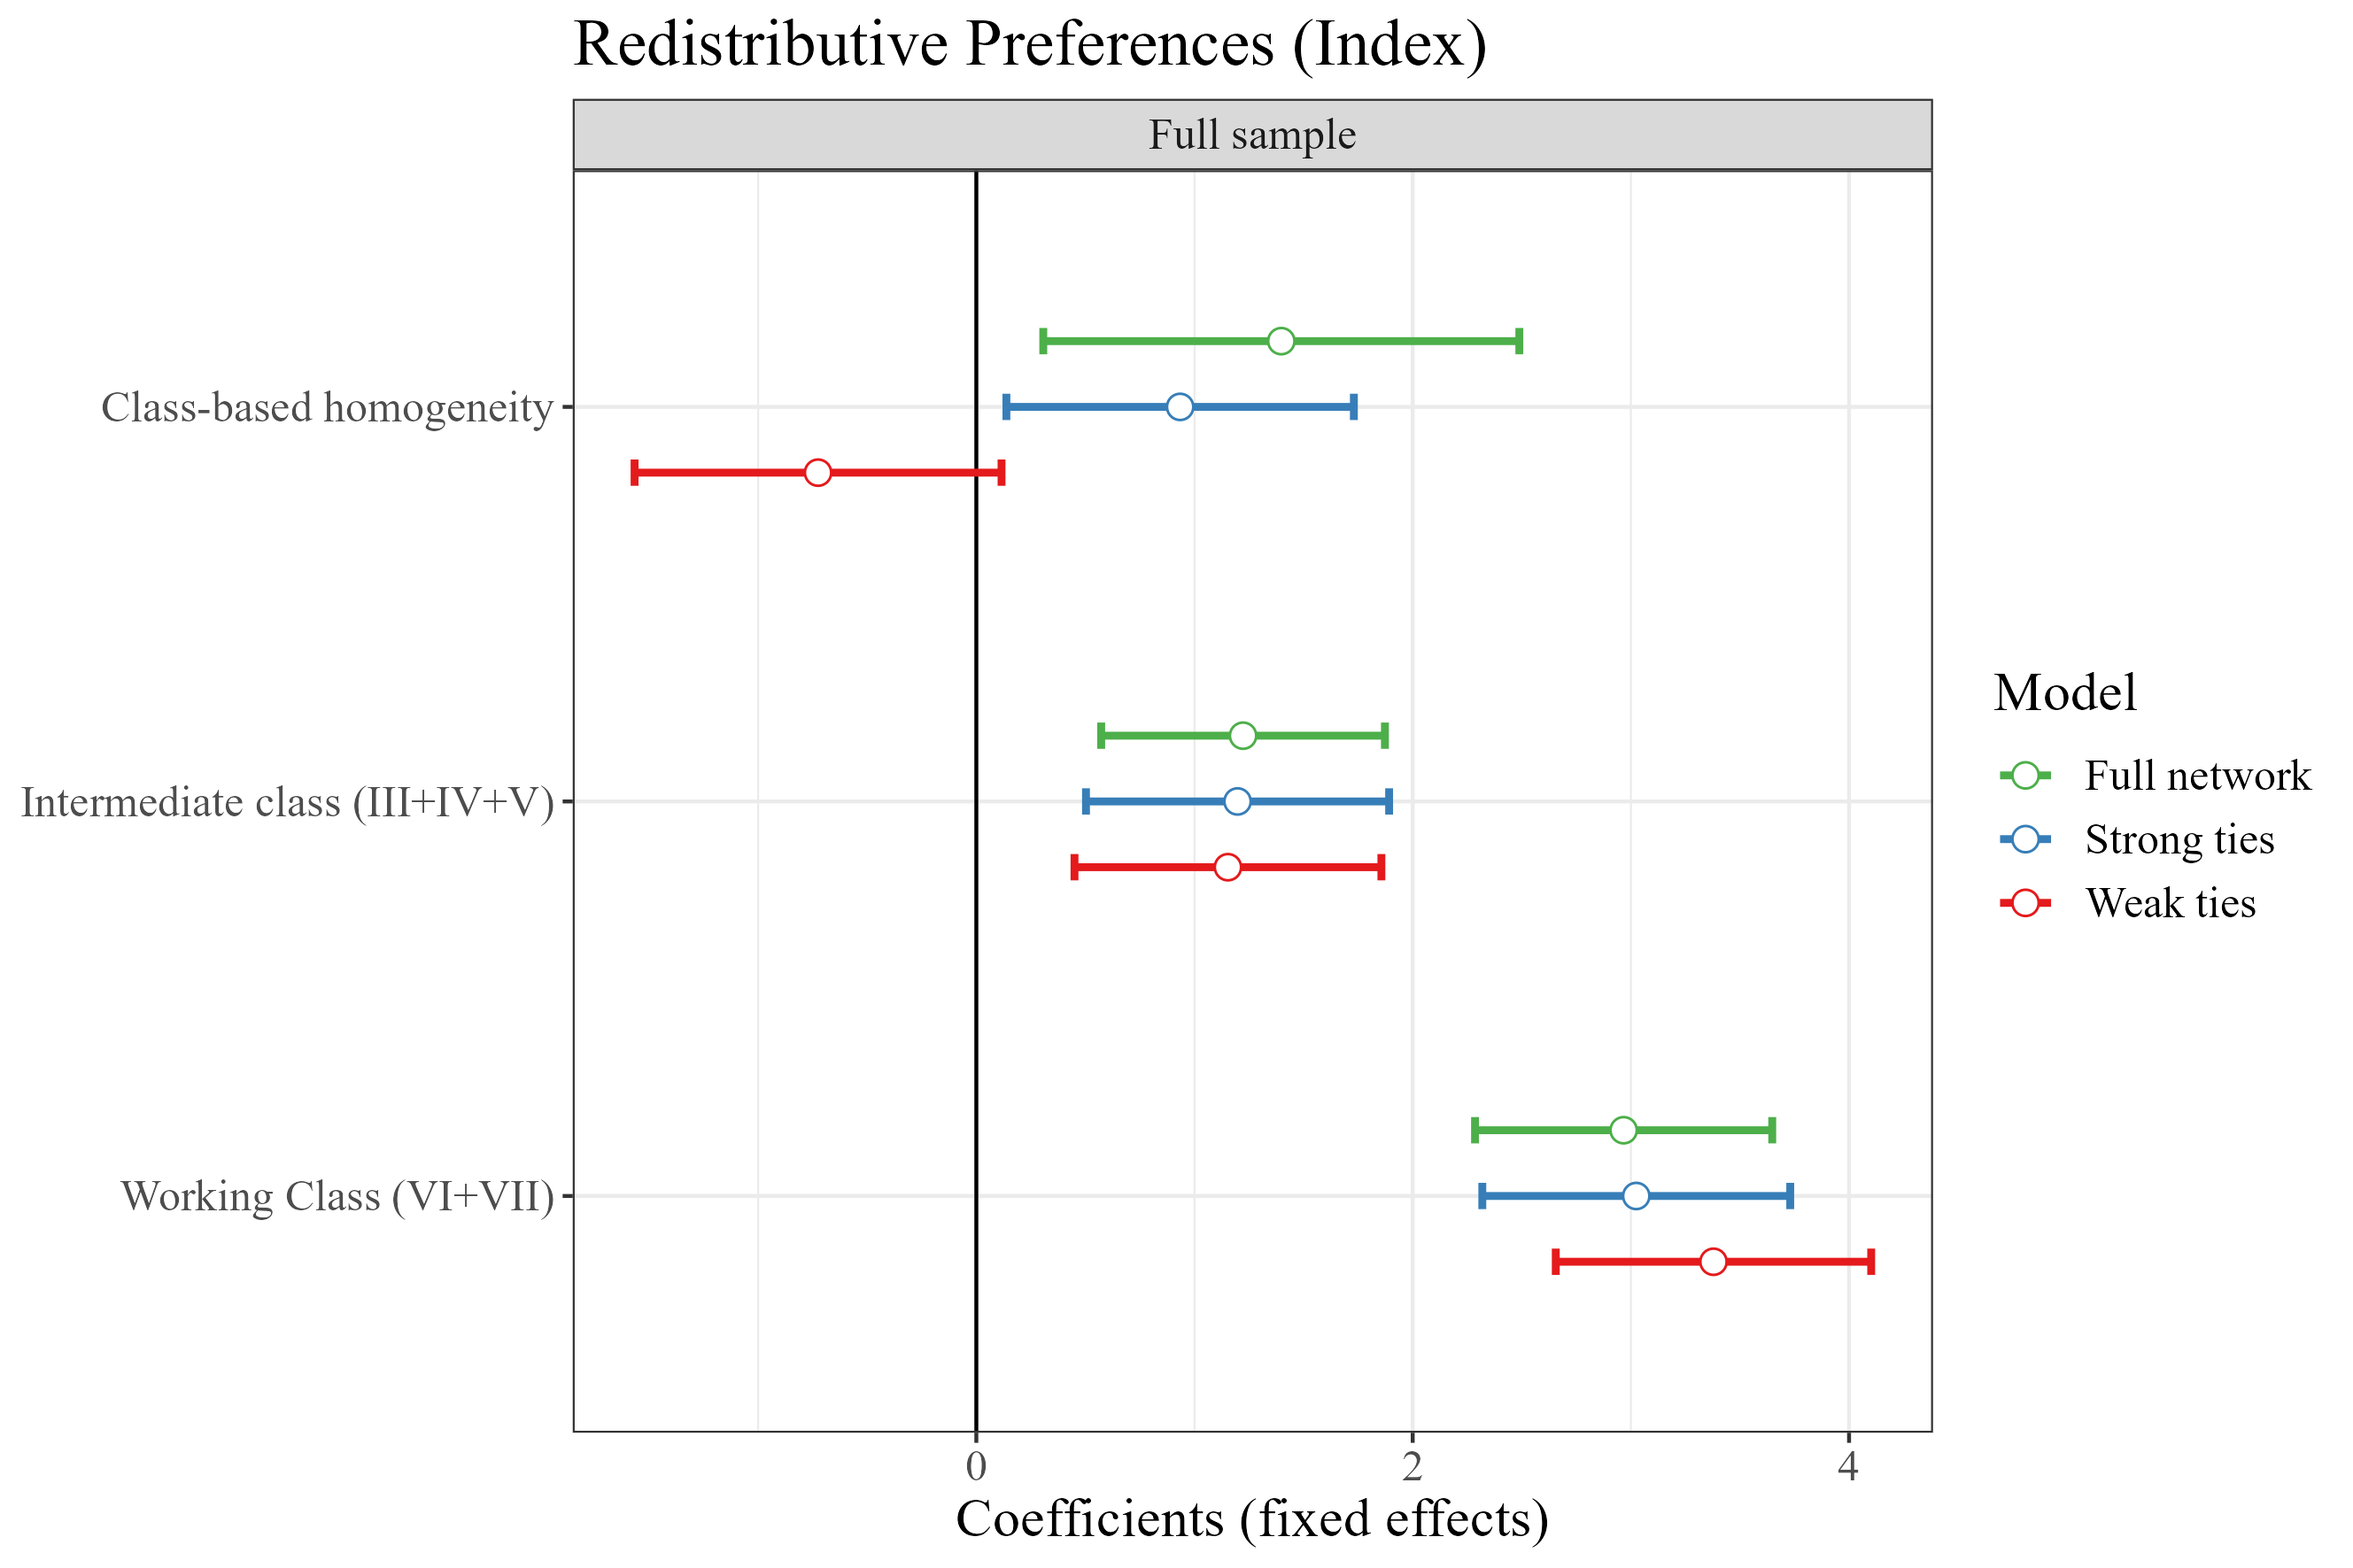
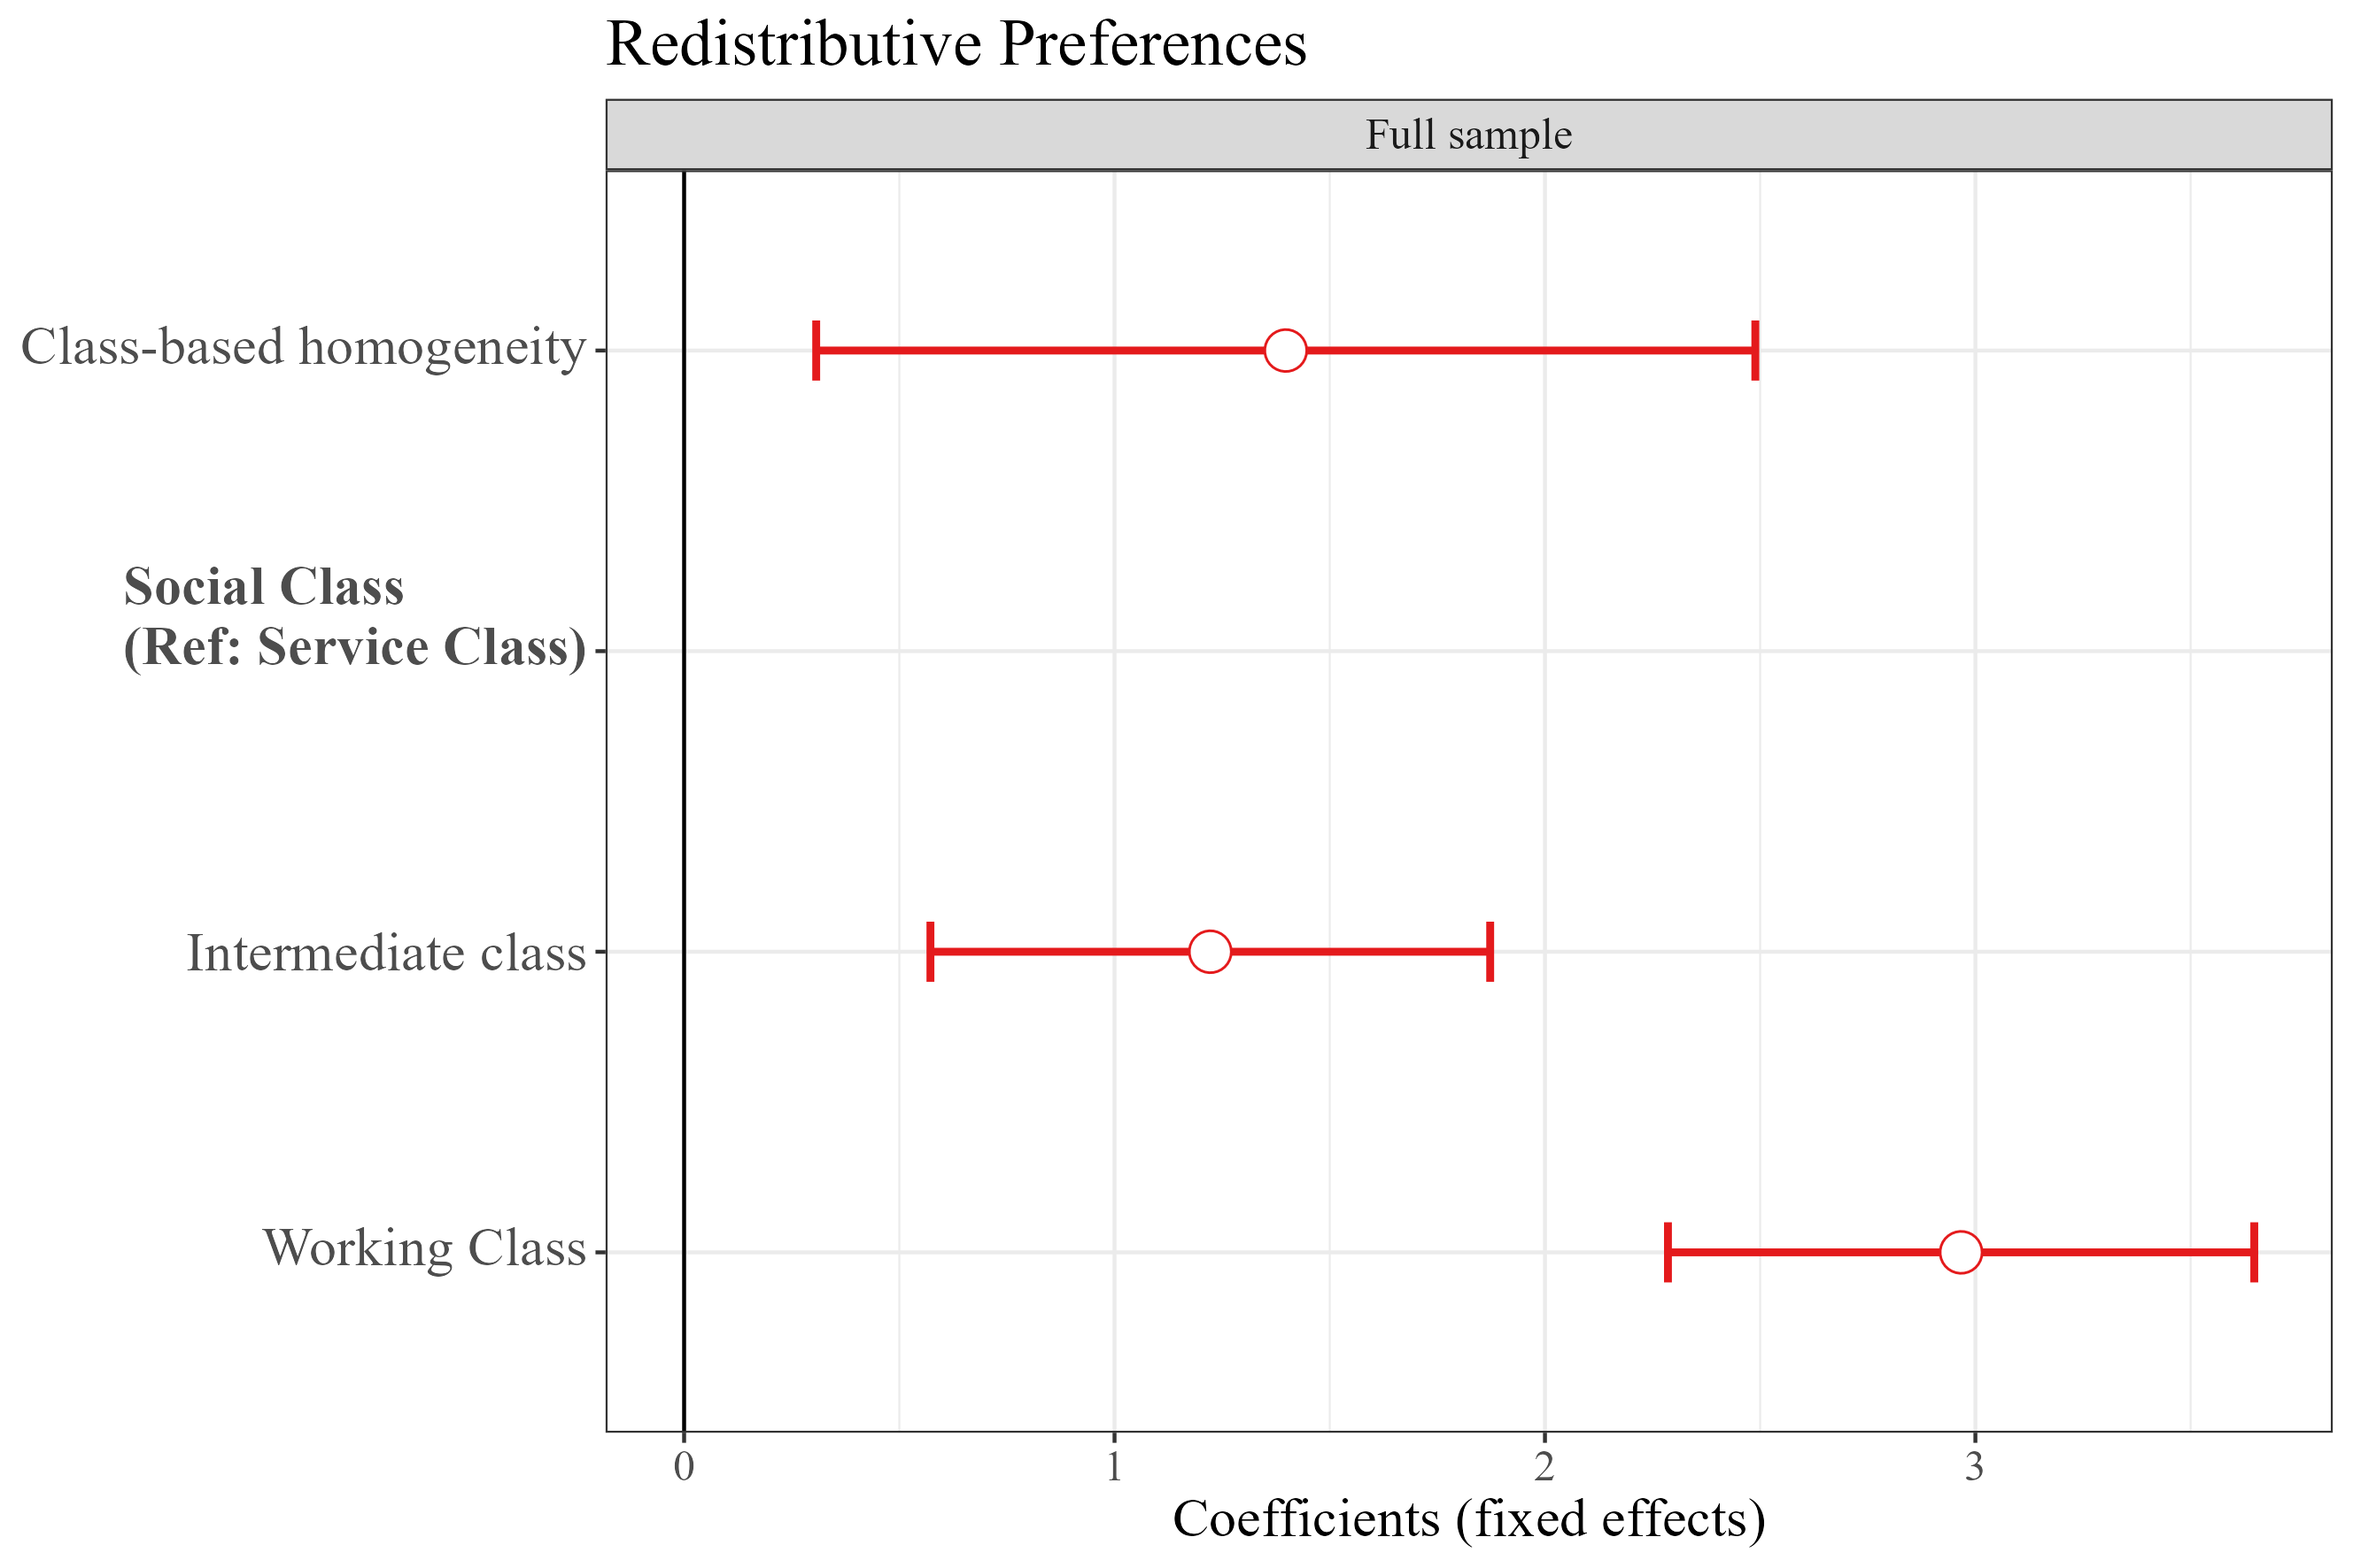
a

diff --git a/tab_cross_level.html b/tab_cross_level.html
@@ -1,0 +1,246 @@
+<table class="texreg" style="margin: 10px auto;border-collapse: collapse;border-spacing: 0px;caption-side: bottom;color: #000000;border-top: 2px solid #000000;">
+<caption>Statistical models</caption>
+<thead>
+<tr>
+<th style="padding-left: 5px;padding-right: 5px;">&nbsp;</th>
+<th style="padding-left: 5px;padding-right: 5px;">Model 1</th>
+<th style="padding-left: 5px;padding-right: 5px;">Model 2</th>
+<th style="padding-left: 5px;padding-right: 5px;">Model 3</th>
+</tr>
+</thead>
+<tbody>
+<tr style="border-top: 1px solid #000000;">
+<td style="padding-left: 5px;padding-right: 5px;">Intermediate Class</td>
+<td style="padding-left: 5px;padding-right: 5px;">1.22<sup>&#42;&#42;&#42;</sup></td>
+<td style="padding-left: 5px;padding-right: 5px;">-1.28<sup>&#42;</sup></td>
+<td style="padding-left: 5px;padding-right: 5px;">6.45<sup>&#42;&#42;</sup></td>
+</tr>
+<tr>
+<td style="padding-left: 5px;padding-right: 5px;">&nbsp;</td>
+<td style="padding-left: 5px;padding-right: 5px;">(0.33)</td>
+<td style="padding-left: 5px;padding-right: 5px;">(0.60)</td>
+<td style="padding-left: 5px;padding-right: 5px;">(2.24)</td>
+</tr>
+<tr>
+<td style="padding-left: 5px;padding-right: 5px;">Working Class</td>
+<td style="padding-left: 5px;padding-right: 5px;">2.97<sup>&#42;&#42;&#42;</sup></td>
+<td style="padding-left: 5px;padding-right: 5px;">-0.72</td>
+<td style="padding-left: 5px;padding-right: 5px;">10.95<sup>&#42;&#42;&#42;</sup></td>
+</tr>
+<tr>
+<td style="padding-left: 5px;padding-right: 5px;">&nbsp;</td>
+<td style="padding-left: 5px;padding-right: 5px;">(0.35)</td>
+<td style="padding-left: 5px;padding-right: 5px;">(0.60)</td>
+<td style="padding-left: 5px;padding-right: 5px;">(2.87)</td>
+</tr>
+<tr>
+<td style="padding-left: 5px;padding-right: 5px;">Class-based network homogeneity</td>
+<td style="padding-left: 5px;padding-right: 5px;">1.40<sup>&#42;</sup></td>
+<td style="padding-left: 5px;padding-right: 5px;">-7.21<sup>&#42;&#42;&#42;</sup></td>
+<td style="padding-left: 5px;padding-right: 5px;">-21.58<sup>&#42;&#42;&#42;</sup></td>
+</tr>
+<tr>
+<td style="padding-left: 5px;padding-right: 5px;">&nbsp;</td>
+<td style="padding-left: 5px;padding-right: 5px;">(0.56)</td>
+<td style="padding-left: 5px;padding-right: 5px;">(1.28)</td>
+<td style="padding-left: 5px;padding-right: 5px;">(6.16)</td>
+</tr>
+<tr>
+<td style="padding-left: 5px;padding-right: 5px;">Homogeneity x Intermediate Class</td>
+<td style="padding-left: 5px;padding-right: 5px;">&nbsp;</td>
+<td style="padding-left: 5px;padding-right: 5px;">9.16<sup>&#42;&#42;&#42;</sup></td>
+<td style="padding-left: 5px;padding-right: 5px;">23.14<sup>&#42;&#42;</sup></td>
+</tr>
+<tr>
+<td style="padding-left: 5px;padding-right: 5px;">&nbsp;</td>
+<td style="padding-left: 5px;padding-right: 5px;">&nbsp;</td>
+<td style="padding-left: 5px;padding-right: 5px;">(1.65)</td>
+<td style="padding-left: 5px;padding-right: 5px;">(7.55)</td>
+</tr>
+<tr>
+<td style="padding-left: 5px;padding-right: 5px;">Homogeneity x Working Class</td>
+<td style="padding-left: 5px;padding-right: 5px;">&nbsp;</td>
+<td style="padding-left: 5px;padding-right: 5px;">11.53<sup>&#42;&#42;&#42;</sup></td>
+<td style="padding-left: 5px;padding-right: 5px;">26.49<sup>&#42;&#42;&#42;</sup></td>
+</tr>
+<tr>
+<td style="padding-left: 5px;padding-right: 5px;">&nbsp;</td>
+<td style="padding-left: 5px;padding-right: 5px;">&nbsp;</td>
+<td style="padding-left: 5px;padding-right: 5px;">(1.50)</td>
+<td style="padding-left: 5px;padding-right: 5px;">(6.71)</td>
+</tr>
+<tr>
+<td style="padding-left: 5px;padding-right: 5px;">Income Inequality (Gini Disposable)</td>
+<td style="padding-left: 5px;padding-right: 5px;">&nbsp;</td>
+<td style="padding-left: 5px;padding-right: 5px;">&nbsp;</td>
+<td style="padding-left: 5px;padding-right: 5px;">0.24</td>
+</tr>
+<tr>
+<td style="padding-left: 5px;padding-right: 5px;">&nbsp;</td>
+<td style="padding-left: 5px;padding-right: 5px;">&nbsp;</td>
+<td style="padding-left: 5px;padding-right: 5px;">&nbsp;</td>
+<td style="padding-left: 5px;padding-right: 5px;">(0.21)</td>
+</tr>
+<tr>
+<td style="padding-left: 5px;padding-right: 5px;">Homogeneity x Inequality</td>
+<td style="padding-left: 5px;padding-right: 5px;">&nbsp;</td>
+<td style="padding-left: 5px;padding-right: 5px;">&nbsp;</td>
+<td style="padding-left: 5px;padding-right: 5px;">0.45<sup>&#42;</sup></td>
+</tr>
+<tr>
+<td style="padding-left: 5px;padding-right: 5px;">&nbsp;</td>
+<td style="padding-left: 5px;padding-right: 5px;">&nbsp;</td>
+<td style="padding-left: 5px;padding-right: 5px;">&nbsp;</td>
+<td style="padding-left: 5px;padding-right: 5px;">(0.18)</td>
+</tr>
+<tr>
+<td style="padding-left: 5px;padding-right: 5px;">Intermediate Class x Inequality</td>
+<td style="padding-left: 5px;padding-right: 5px;">&nbsp;</td>
+<td style="padding-left: 5px;padding-right: 5px;">&nbsp;</td>
+<td style="padding-left: 5px;padding-right: 5px;">-0.13<sup>&#42;</sup></td>
+</tr>
+<tr>
+<td style="padding-left: 5px;padding-right: 5px;">&nbsp;</td>
+<td style="padding-left: 5px;padding-right: 5px;">&nbsp;</td>
+<td style="padding-left: 5px;padding-right: 5px;">&nbsp;</td>
+<td style="padding-left: 5px;padding-right: 5px;">(0.07)</td>
+</tr>
+<tr>
+<td style="padding-left: 5px;padding-right: 5px;">Working Class x Inequality</td>
+<td style="padding-left: 5px;padding-right: 5px;">&nbsp;</td>
+<td style="padding-left: 5px;padding-right: 5px;">&nbsp;</td>
+<td style="padding-left: 5px;padding-right: 5px;">-0.22<sup>&#42;&#42;</sup></td>
+</tr>
+<tr>
+<td style="padding-left: 5px;padding-right: 5px;">&nbsp;</td>
+<td style="padding-left: 5px;padding-right: 5px;">&nbsp;</td>
+<td style="padding-left: 5px;padding-right: 5px;">&nbsp;</td>
+<td style="padding-left: 5px;padding-right: 5px;">(0.08)</td>
+</tr>
+<tr>
+<td style="padding-left: 5px;padding-right: 5px;">Homogeneity x Intermediate Class x Inequality</td>
+<td style="padding-left: 5px;padding-right: 5px;">&nbsp;</td>
+<td style="padding-left: 5px;padding-right: 5px;">&nbsp;</td>
+<td style="padding-left: 5px;padding-right: 5px;">-0.44<sup>&#42;</sup></td>
+</tr>
+<tr>
+<td style="padding-left: 5px;padding-right: 5px;">&nbsp;</td>
+<td style="padding-left: 5px;padding-right: 5px;">&nbsp;</td>
+<td style="padding-left: 5px;padding-right: 5px;">&nbsp;</td>
+<td style="padding-left: 5px;padding-right: 5px;">(0.22)</td>
+</tr>
+<tr>
+<td style="padding-left: 5px;padding-right: 5px;">Homogeneity x Working Class x Inequality</td>
+<td style="padding-left: 5px;padding-right: 5px;">&nbsp;</td>
+<td style="padding-left: 5px;padding-right: 5px;">&nbsp;</td>
+<td style="padding-left: 5px;padding-right: 5px;">-0.46<sup>&#42;</sup></td>
+</tr>
+<tr>
+<td style="padding-left: 5px;padding-right: 5px;">&nbsp;</td>
+<td style="padding-left: 5px;padding-right: 5px;">&nbsp;</td>
+<td style="padding-left: 5px;padding-right: 5px;">&nbsp;</td>
+<td style="padding-left: 5px;padding-right: 5px;">(0.19)</td>
+</tr>
+<tr style="border-top: 1px solid #000000;">
+<td style="padding-left: 5px;padding-right: 5px;">AIC</td>
+<td style="padding-left: 5px;padding-right: 5px;">325462.79</td>
+<td style="padding-left: 5px;padding-right: 5px;">325402.80</td>
+<td style="padding-left: 5px;padding-right: 5px;">325377.97</td>
+</tr>
+<tr>
+<td style="padding-left: 5px;padding-right: 5px;">BIC</td>
+<td style="padding-left: 5px;padding-right: 5px;">325589.99</td>
+<td style="padding-left: 5px;padding-right: 5px;">325546.97</td>
+<td style="padding-left: 5px;padding-right: 5px;">325657.83</td>
+</tr>
+<tr>
+<td style="padding-left: 5px;padding-right: 5px;">Log Likelihood</td>
+<td style="padding-left: 5px;padding-right: 5px;">-162716.39</td>
+<td style="padding-left: 5px;padding-right: 5px;">-162684.40</td>
+<td style="padding-left: 5px;padding-right: 5px;">-162655.99</td>
+</tr>
+<tr>
+<td style="padding-left: 5px;padding-right: 5px;">Num. obs.</td>
+<td style="padding-left: 5px;padding-right: 5px;">35610</td>
+<td style="padding-left: 5px;padding-right: 5px;">35610</td>
+<td style="padding-left: 5px;padding-right: 5px;">35610</td>
+</tr>
+<tr>
+<td style="padding-left: 5px;padding-right: 5px;">Num. groups: country2</td>
+<td style="padding-left: 5px;padding-right: 5px;">31</td>
+<td style="padding-left: 5px;padding-right: 5px;">31</td>
+<td style="padding-left: 5px;padding-right: 5px;">31</td>
+</tr>
+<tr>
+<td style="padding-left: 5px;padding-right: 5px;">Var: country2 (Intercept)</td>
+<td style="padding-left: 5px;padding-right: 5px;">76.03</td>
+<td style="padding-left: 5px;padding-right: 5px;">74.82</td>
+<td style="padding-left: 5px;padding-right: 5px;">76.36</td>
+</tr>
+<tr>
+<td style="padding-left: 5px;padding-right: 5px;">Var: Residual</td>
+<td style="padding-left: 5px;padding-right: 5px;">487.26</td>
+<td style="padding-left: 5px;padding-right: 5px;">486.49</td>
+<td style="padding-left: 5px;padding-right: 5px;">484.76</td>
+</tr>
+<tr>
+<td style="padding-left: 5px;padding-right: 5px;">Var: country2 homclass_gc</td>
+<td style="padding-left: 5px;padding-right: 5px;">&nbsp;</td>
+<td style="padding-left: 5px;padding-right: 5px;">&nbsp;</td>
+<td style="padding-left: 5px;padding-right: 5px;">3.07</td>
+</tr>
+<tr>
+<td style="padding-left: 5px;padding-right: 5px;">Var: country2 class3Intermediate class (III+IV+V)</td>
+<td style="padding-left: 5px;padding-right: 5px;">&nbsp;</td>
+<td style="padding-left: 5px;padding-right: 5px;">&nbsp;</td>
+<td style="padding-left: 5px;padding-right: 5px;">3.40</td>
+</tr>
+<tr>
+<td style="padding-left: 5px;padding-right: 5px;">Var: country2 class3Working Class (VI+VII)</td>
+<td style="padding-left: 5px;padding-right: 5px;">&nbsp;</td>
+<td style="padding-left: 5px;padding-right: 5px;">&nbsp;</td>
+<td style="padding-left: 5px;padding-right: 5px;">8.97</td>
+</tr>
+<tr>
+<td style="padding-left: 5px;padding-right: 5px;">Cov: country2 (Intercept) homclass_gc</td>
+<td style="padding-left: 5px;padding-right: 5px;">&nbsp;</td>
+<td style="padding-left: 5px;padding-right: 5px;">&nbsp;</td>
+<td style="padding-left: 5px;padding-right: 5px;">2.49</td>
+</tr>
+<tr>
+<td style="padding-left: 5px;padding-right: 5px;">Cov: country2 (Intercept) class3Intermediate class (III+IV+V)</td>
+<td style="padding-left: 5px;padding-right: 5px;">&nbsp;</td>
+<td style="padding-left: 5px;padding-right: 5px;">&nbsp;</td>
+<td style="padding-left: 5px;padding-right: 5px;">-1.44</td>
+</tr>
+<tr>
+<td style="padding-left: 5px;padding-right: 5px;">Cov: country2 (Intercept) class3Working Class (VI+VII)</td>
+<td style="padding-left: 5px;padding-right: 5px;">&nbsp;</td>
+<td style="padding-left: 5px;padding-right: 5px;">&nbsp;</td>
+<td style="padding-left: 5px;padding-right: 5px;">-7.53</td>
+</tr>
+<tr>
+<td style="padding-left: 5px;padding-right: 5px;">Cov: country2 homclass_gc class3Intermediate class (III+IV+V)</td>
+<td style="padding-left: 5px;padding-right: 5px;">&nbsp;</td>
+<td style="padding-left: 5px;padding-right: 5px;">&nbsp;</td>
+<td style="padding-left: 5px;padding-right: 5px;">1.82</td>
+</tr>
+<tr>
+<td style="padding-left: 5px;padding-right: 5px;">Cov: country2 homclass_gc class3Working Class (VI+VII)</td>
+<td style="padding-left: 5px;padding-right: 5px;">&nbsp;</td>
+<td style="padding-left: 5px;padding-right: 5px;">&nbsp;</td>
+<td style="padding-left: 5px;padding-right: 5px;">1.09</td>
+</tr>
+<tr style="border-bottom: 2px solid #000000;">
+<td style="padding-left: 5px;padding-right: 5px;">Cov: country2 class3Intermediate class (III+IV+V) class3Working Class (VI+VII)</td>
+<td style="padding-left: 5px;padding-right: 5px;">&nbsp;</td>
+<td style="padding-left: 5px;padding-right: 5px;">&nbsp;</td>
+<td style="padding-left: 5px;padding-right: 5px;">4.23</td>
+</tr>
+</tbody>
+<tfoot>
+<tr>
+<td style="font-size: 0.8em;" colspan="4"><sup>&#42;&#42;&#42;</sup>p &lt; 0.001; <sup>&#42;&#42;</sup>p &lt; 0.01; <sup>&#42;</sup>p &lt; 0.05</td>
+</tr>
+</tfoot>
+</table>
